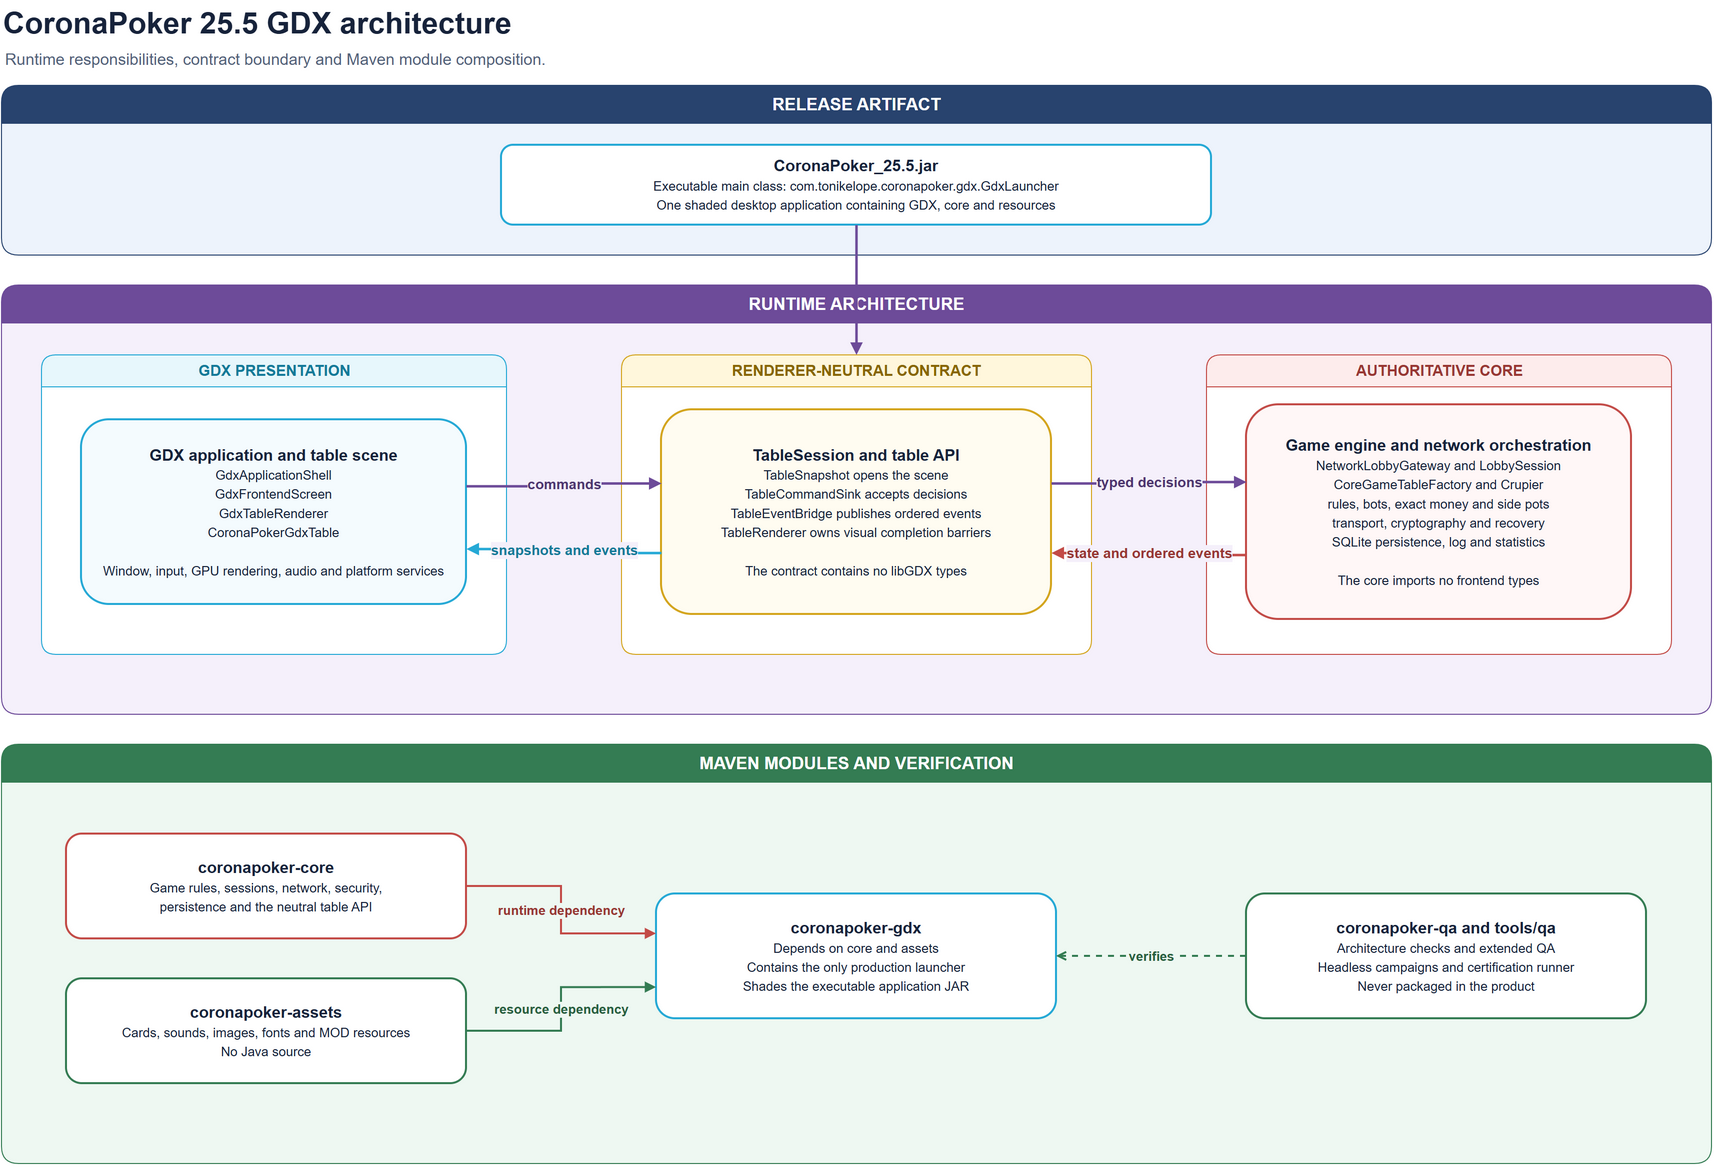
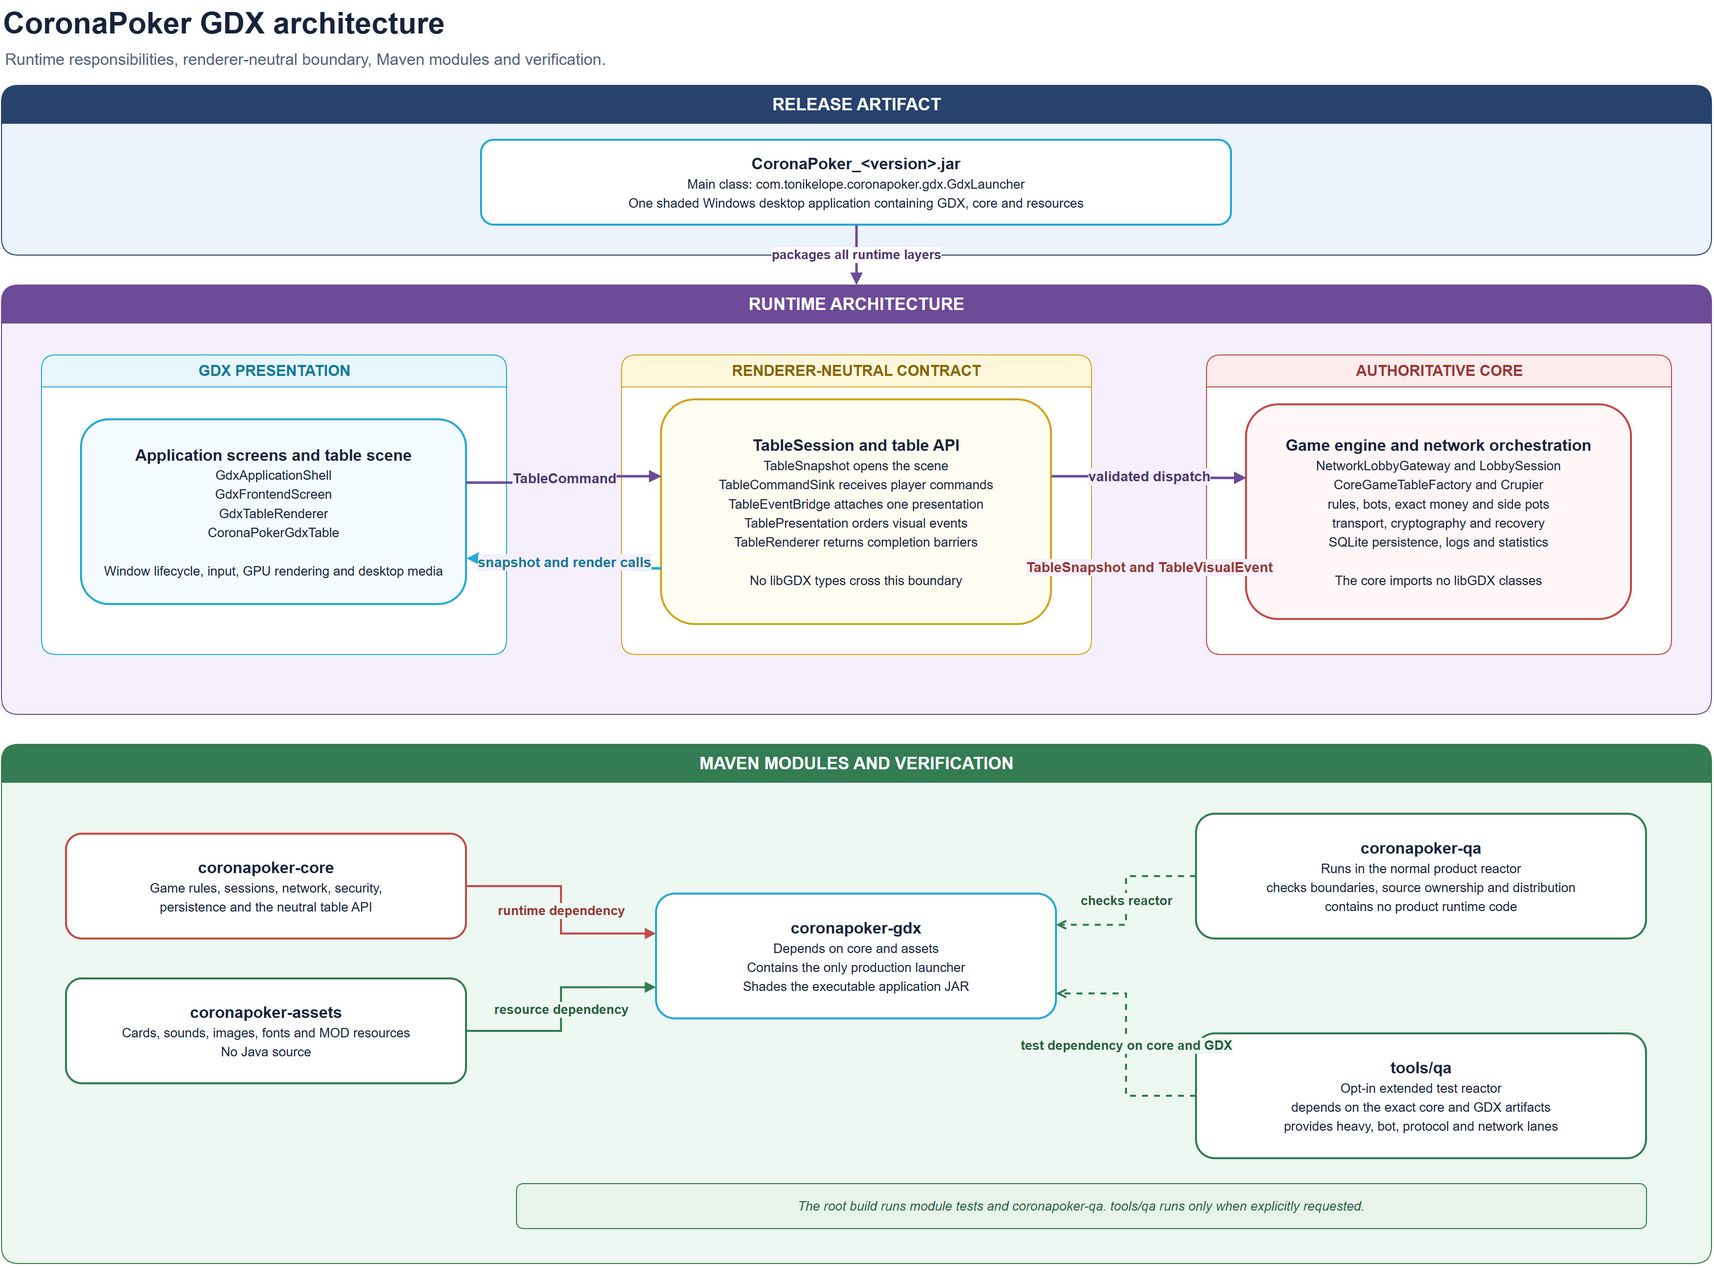
Correct GDX architecture documentation

diff --git a/docs/ARCHITECTURE.md b/docs/ARCHITECTURE.md
@@ -1,6 +1,6 @@
 # CoronaPoker architecture
 
-CoronaPoker 25.5 is a libGDX desktop application. Poker rules, network
+CoronaPoker is a libGDX desktop application. Poker rules, network
 protocols, persistence and security live in a renderer-independent core. The
 GDX module owns presentation and user input. Maven enforces this dependency
 direction and packages the modules as one runnable application.
@@ -28,20 +28,24 @@ GdxLauncher.main
 `CoronaPokerBootstrap` creates the process services and returns a
 `CoronaPokerApplication`. `GdxApplicationShell` owns the libGDX window and
 switches between the frontend screens and the poker table. `GdxFrontendScreen`
-renders the menu, setup, waiting room, statistics and end-of-game views.
+renders the menu, setup, waiting room and statistics views.
+`CoronaPokerGdxTable` owns the active table scene and its final balance
+summary.
 
 ## Lobby and table creation
 
-`NetworkLobbyGateway` owns the host or client lobby. It performs the network
-handshake, maintains the participant roster and publishes a `TableSession` when
-the peers agree that the game can start.
+`NetworkLobbyGateway` opens the host or client transport and creates a
+`LobbySession`. The lobby session owns the lobby state, commands and transport,
+maintains the participant roster and publishes one `TableSession` when the
+peers agree that the game can start.
 
 ```text
 GdxFrontendScreen
   -> NetworkLobbyGateway
+  -> LobbySession
   -> CoreGameTableFactory.create
   -> TableSession
-  -> GdxApplicationShell.attachTable
+  -> GdxApplicationShell
   -> GdxTableRenderer
   -> CoronaPokerGdxTable
 ```
@@ -59,8 +63,8 @@ These types contain no libGDX classes.
 
 ### TableSession
 
-`TableSession` transfers ownership of a prepared table from the lobby to the
-application shell. It contains:
+`TableSession` exposes a prepared table to the application shell while the
+publishing `LobbySession` remains its lifetime owner. It contains:
 
 - the initial `TableSnapshot`;
 - the `TableCommandSink` used by the frontend;
@@ -100,14 +104,18 @@ The engine publishes immutable `TableVisualEvent` values through
 ```text
 Crupier
   -> TableEventBridge.publish
+  -> TablePresentation
   -> GdxTableRenderer.render
   -> CoronaPokerGdxTable.acceptEvent
 ```
 
-`GdxTableRenderer` transfers each event to the libGDX render thread. It does
-not decide poker rules. Events that return a `CompletionStage<Void>` define an
-animation barrier at a specific point in hand progression, such as dealing or
-payout. They do not transfer game authority to the renderer.
+`TableEventBridge` attaches one `TablePresentation`. The presentation assigns
+monotonic sequence numbers, queues events while the renderer is opening and
+preserves their delivery order. `GdxTableRenderer` then transfers each render
+call to the libGDX thread. Neither class decides poker rules. Operations that
+return a `CompletionStage<Void>` define an animation barrier at a specific
+point in hand progression, such as dealing or payout. They do not transfer game
+authority to the renderer.
 
 ### Snapshot and event model
 
@@ -134,15 +142,18 @@ The editable source is
 | `modules/coronapoker-core` | Rules, dealer, bots, network, persistence, security and table contracts |
 | `modules/coronapoker-assets` | Images, cards, sounds, translations and bundled media |
 | `modules/coronapoker-gdx` | Launcher, screens, table renderer, input, audio and desktop integration |
-| `modules/coronapoker-qa` | Dependency, source ownership and distribution checks |
-| `tools/qa` | Extended protocol, recovery, security and headless simulation tests |
+| `modules/coronapoker-qa` | Dependency, source ownership and distribution checks run by the normal product reactor |
+| `tools/qa` | Opt-in extended protocol, recovery, security, bot and headless simulation tests |
 
 Each code module has its own source tree. The modules are internal build units,
 not separate products. The distribution contains one executable:
 
 ```text
-target/CoronaPoker_25.5.jar
+target/CoronaPoker_<version>.jar
 ```
+
+The root build runs the module tests and `coronapoker-qa`. The separate
+`tools/qa` reactor runs only when explicitly requested for extended validation.
 
 ## Dependency rules
 

diff --git a/README.md b/README.md
@@ -236,7 +236,8 @@ renderer-neutral table boundary:
 
 The complete walkthrough, including startup sequences, source locations and
 the responsibilities of `TableSession`, `TableCommandSink`,
-`TableEventBridge`, `TableRenderer`, snapshots and visual events, is in
+`TableEventBridge`, `TablePresentation`, `TableRenderer`, snapshots and visual
+events, is in
 **[`docs/ARCHITECTURE.md`](docs/ARCHITECTURE.md)**.
 
 Product Java sources have one physical owner. Game logic and renderer-neutral
@@ -248,7 +249,7 @@ duplicated product classes.
 
 ### Repository layout
 
-- `pom.xml`: canonical CoronaPoker 25.5 build entry point.
+- `pom.xml`: canonical product build entry point.
 - `modules/coronapoker-core/`: shared game, networking, persistence and
   renderer-neutral presentation contracts.
 - `modules/coronapoker-gdx/`: libGDX application and desktop launcher.
